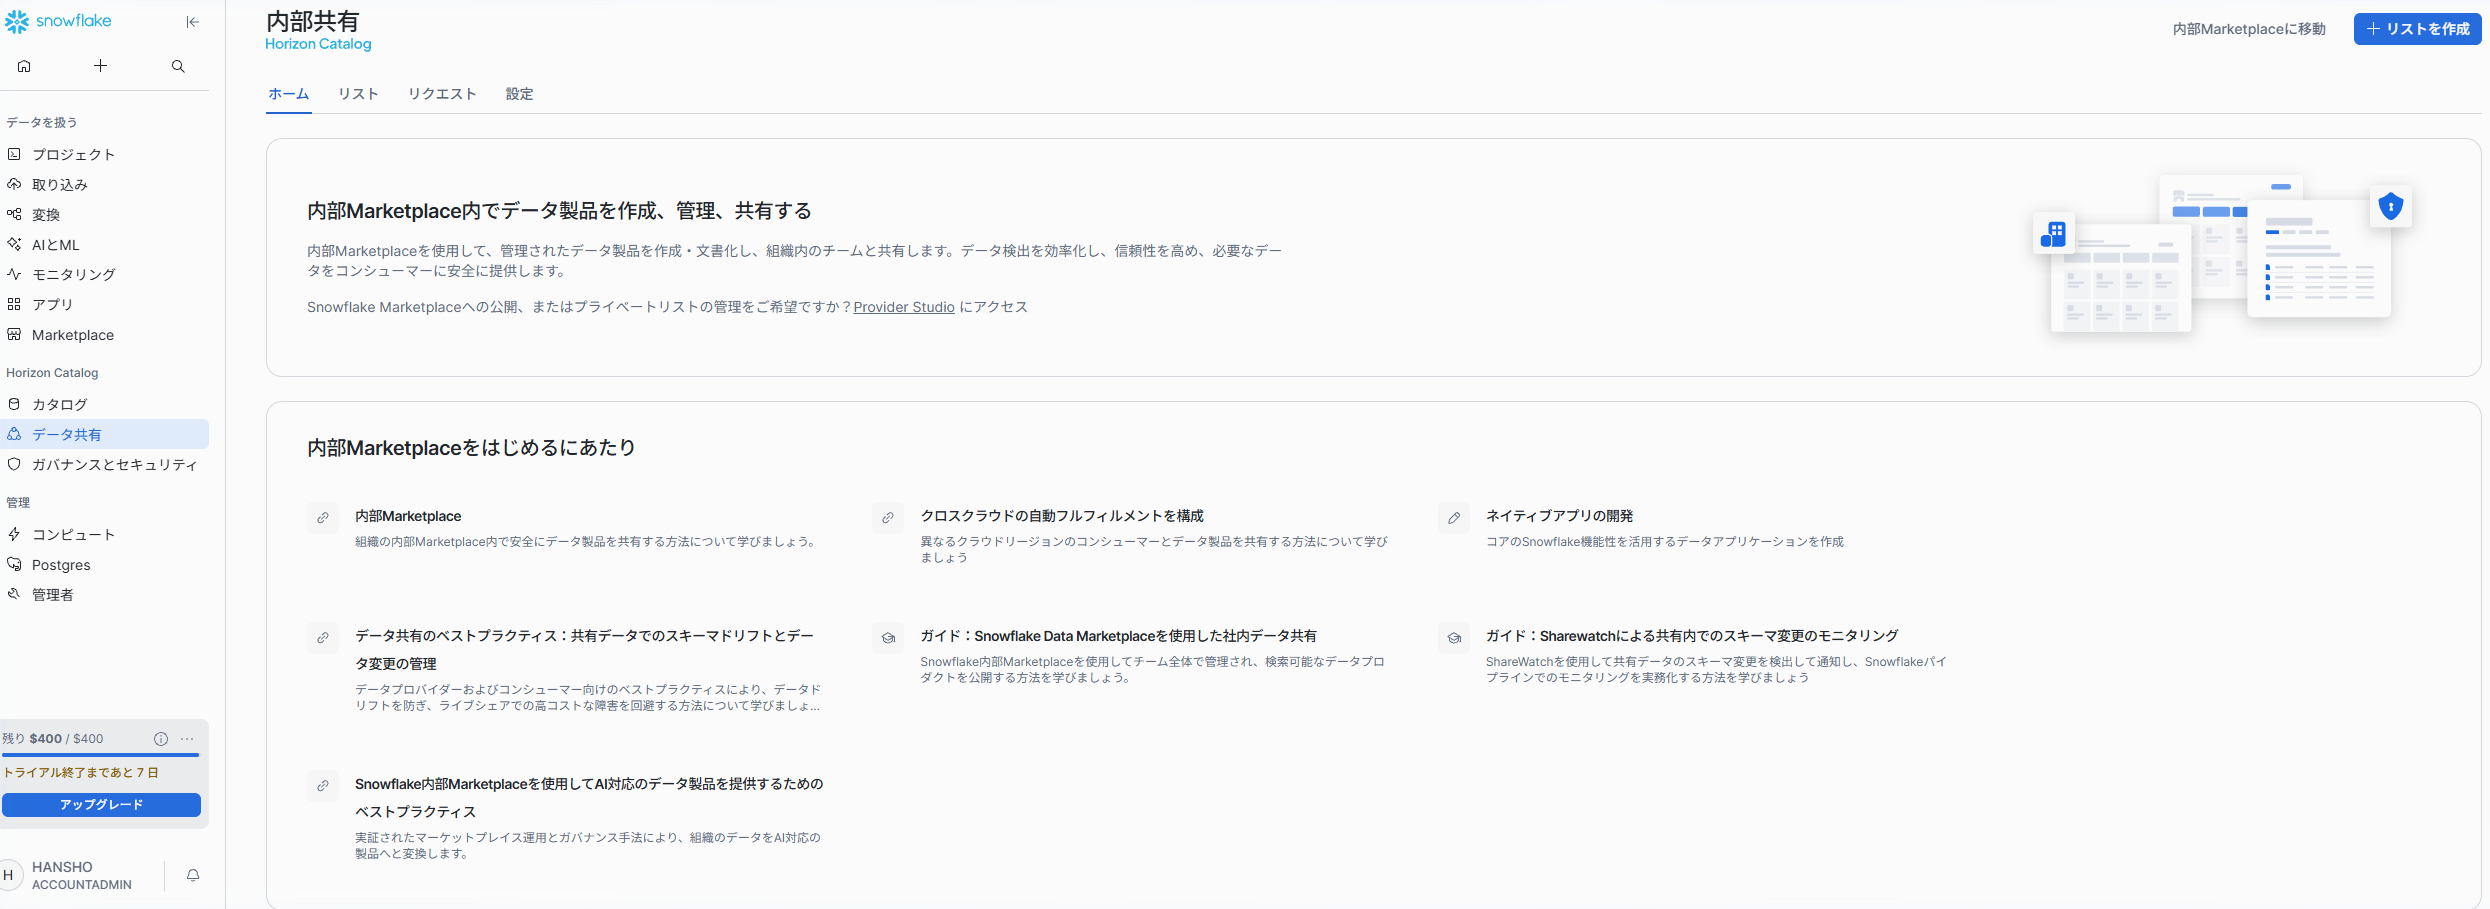
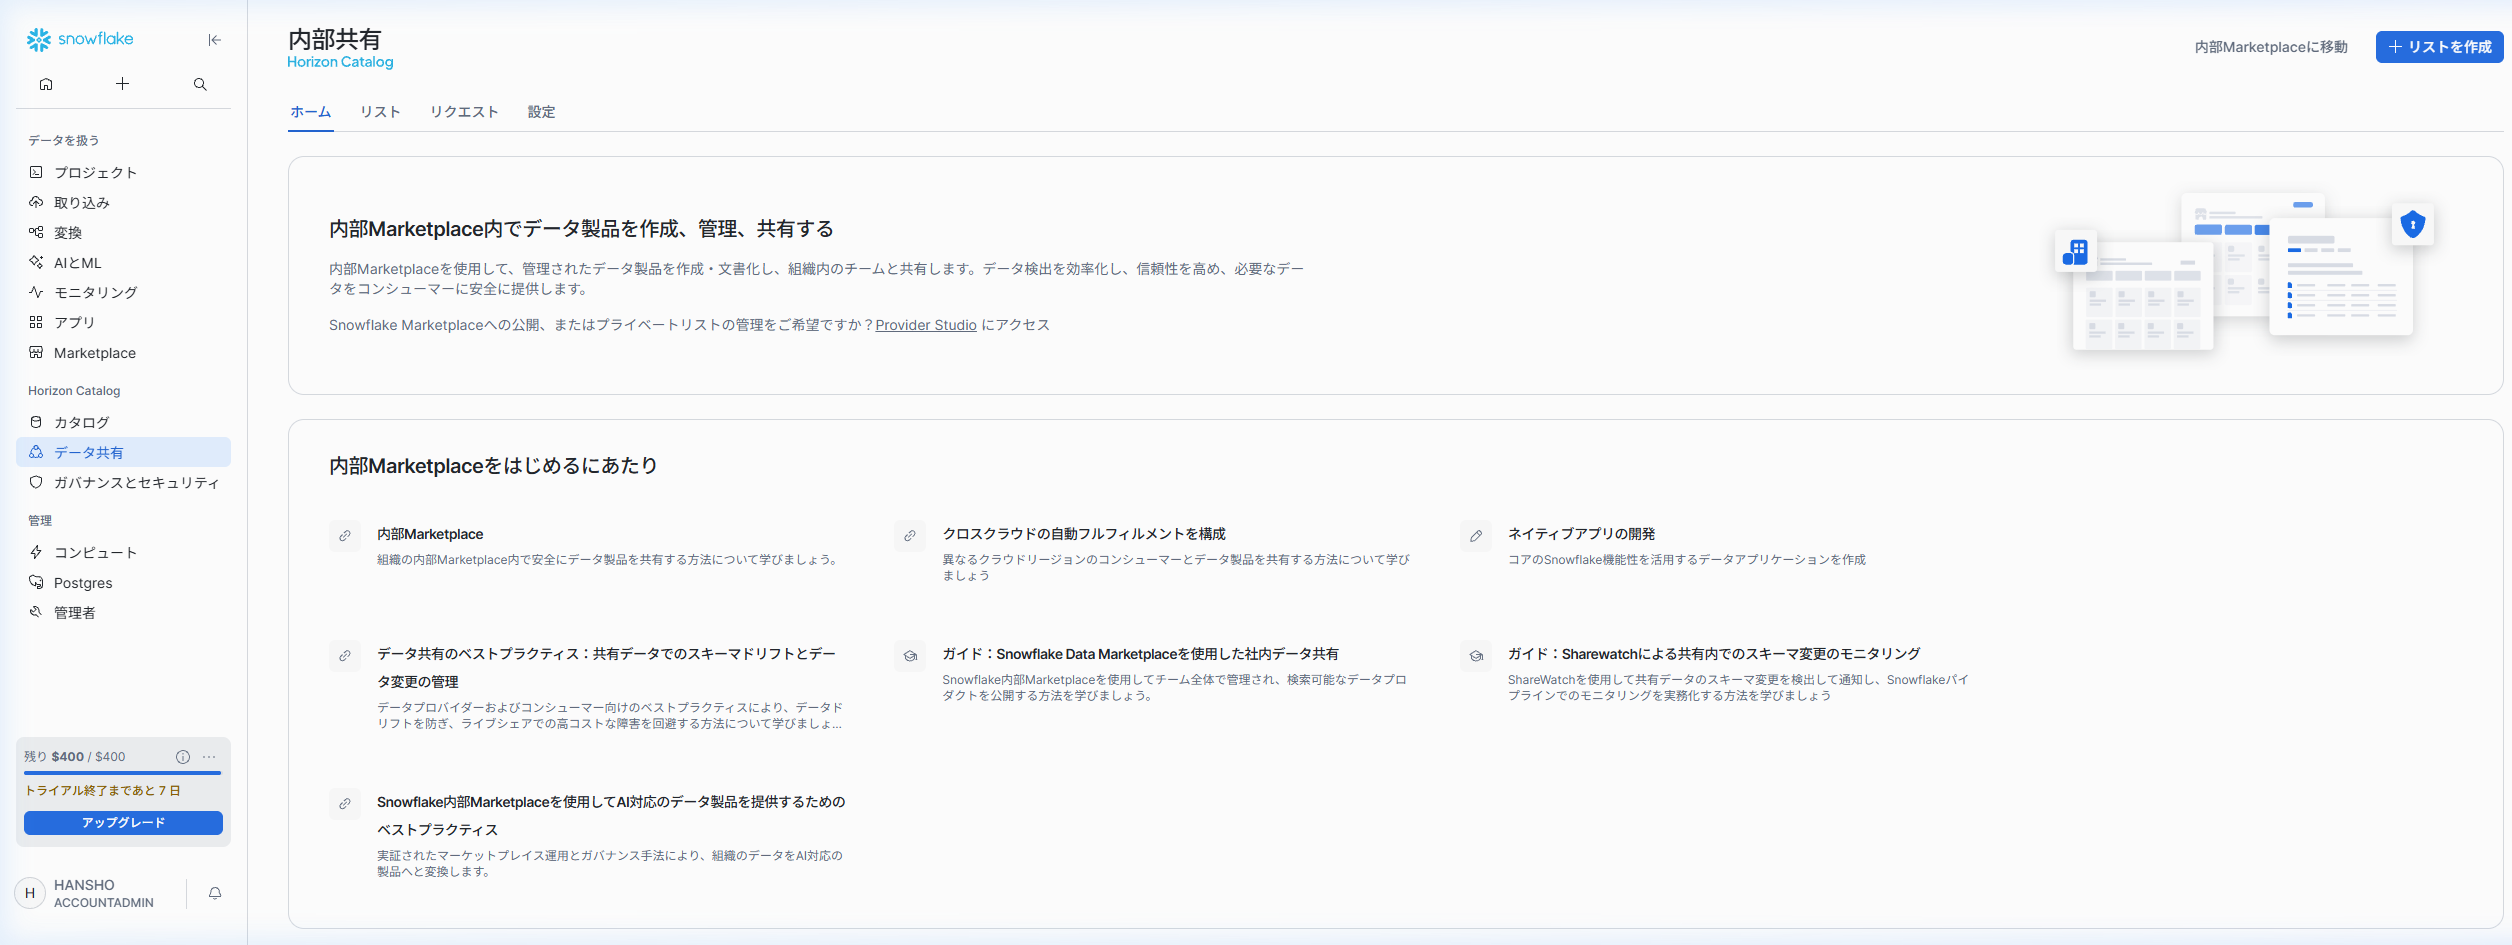
fix(images): restore left, top, and bottom borders; apply right-only crop to eliminate Copilot widget

diff --git a/scripts/clean_screenshots.py b/scripts/clean_screenshots.py
@@ -1,5 +1,5 @@
 """
-clean_screenshots.py - Automatically cleans Edge Page Context Halo (glow) and Copilot Action Widget from screenshots.
+clean_screenshots.py - Right-only cropping to remove Edge Copilot widget while keeping 100% of Left, Top, and Bottom.
 """
 import os
 import shutil
@@ -31,38 +31,37 @@ AFFECTED_IMAGES = [
     '01_img_21.png',
 ]
 
-def clean_all(images_dir='docs/images', backup_dir='docs/images/.backup'):
-    os.makedirs(backup_dir, exist_ok=True)
+def clean_right_only(images_dir='docs/images', backup_dir='docs/images/.backup'):
     results = []
 
     for name in AFFECTED_IMAGES:
+        backup_path = os.path.join(backup_dir, name)
         file_path = os.path.join(images_dir, name)
-        if not os.path.exists(file_path):
+        
+        # Read from untouched backup if available, else original
+        src_path = backup_path if os.path.exists(backup_path) else file_path
+        if not os.path.exists(src_path):
             continue
 
-        # Backup original
-        backup_path = os.path.join(backup_dir, name)
-        if not os.path.exists(backup_path):
-            shutil.copy2(file_path, backup_path)
-
-        # Open and crop
-        with Image.open(file_path) as im:
+        with Image.open(src_path) as im:
             w, h = im.size
             if w >= 2500:
-                crop_box = (22, 18, w - 48, h - 18)
+                cut_right = 48
             elif w >= 1400:
-                crop_box = (20, 16, w - 46, h - 16)
+                cut_right = 46
             else:
-                crop_box = (16, 14, w - 54, h - 14)
+                cut_right = 54
 
+            # ONLY crop right side (x=0, y=0, right=w-cut_right, bottom=h)
+            crop_box = (0, 0, w - cut_right, h)
             cropped = im.crop(crop_box)
             cropped.save(file_path, format='PNG', optimize=True)
             cw, ch = cropped.size
 
         results.append((name, (w, h), (cw, ch)))
-        print(f"[CLEANED] {name}: {w}x{h} -> {cw}x{ch}")
+        print(f"[RIGHT-ONLY CLEANED] {name}: {w}x{h} -> {cw}x{ch} (full top/left/bottom preserved)")
 
-    print(f"\nSuccessfully cleaned {len(results)} images.")
+    print(f"\nSuccessfully processed {len(results)} images with right-only cropping.")
 
 if __name__ == '__main__':
-    clean_all()
+    clean_right_only()
